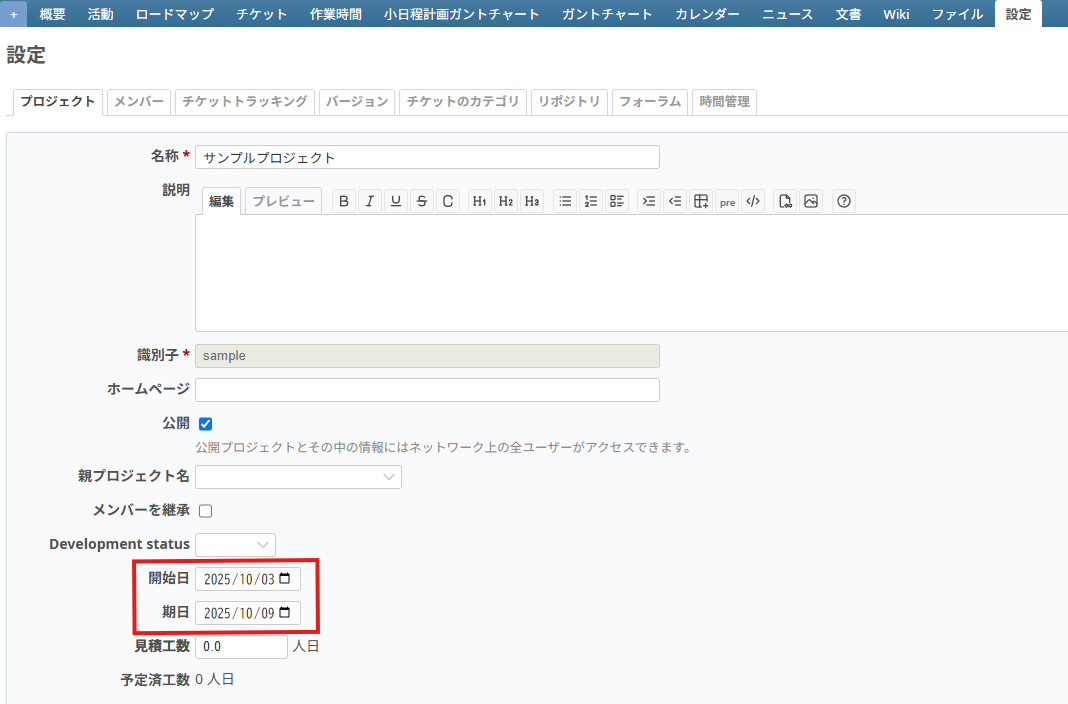
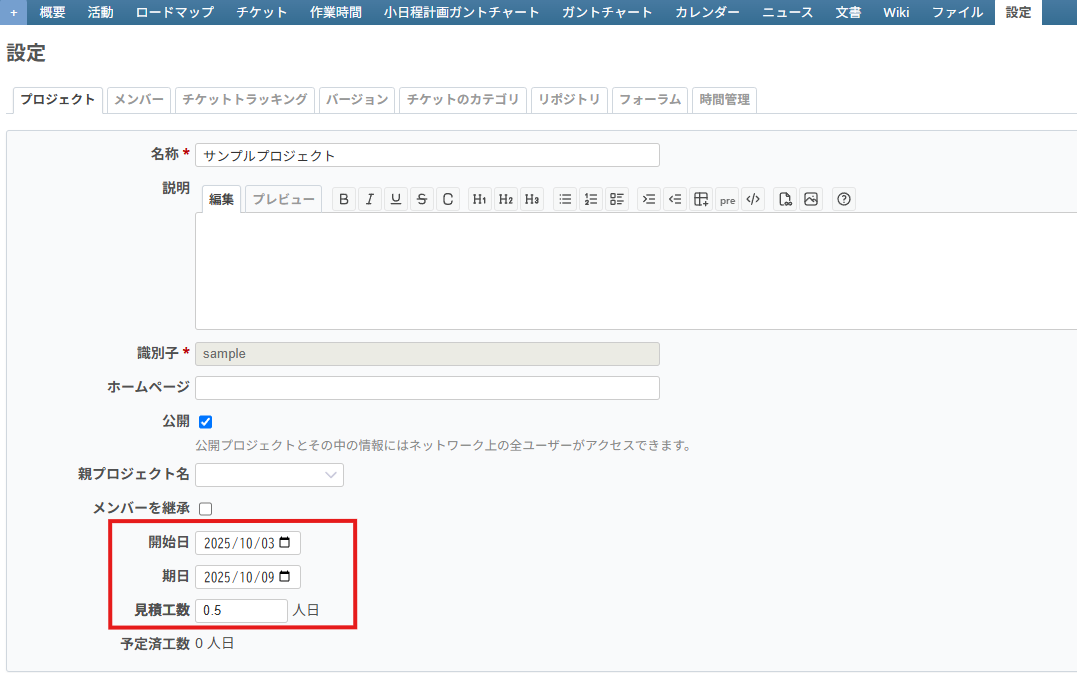
見積工数も説明に含む

diff --git a/README.md b/README.md
@@ -56,7 +56,9 @@
     - 機能名列、1行目のリンク（サンプルプロジェクトの部分）をクリックする
 ![プロジェクト管理](image/README/project_control.png)
 
-    - 開始日と期日を設定する
+    - 開始日と期日と見積工数（人日）を設定する
+
+      ※見積工数にプロジェクトの総工数を設定する
 ![プロジェクト詳細](image/README/project_detail.png)
 
     - 開始日と期日に設定した期間がセルに表示される
